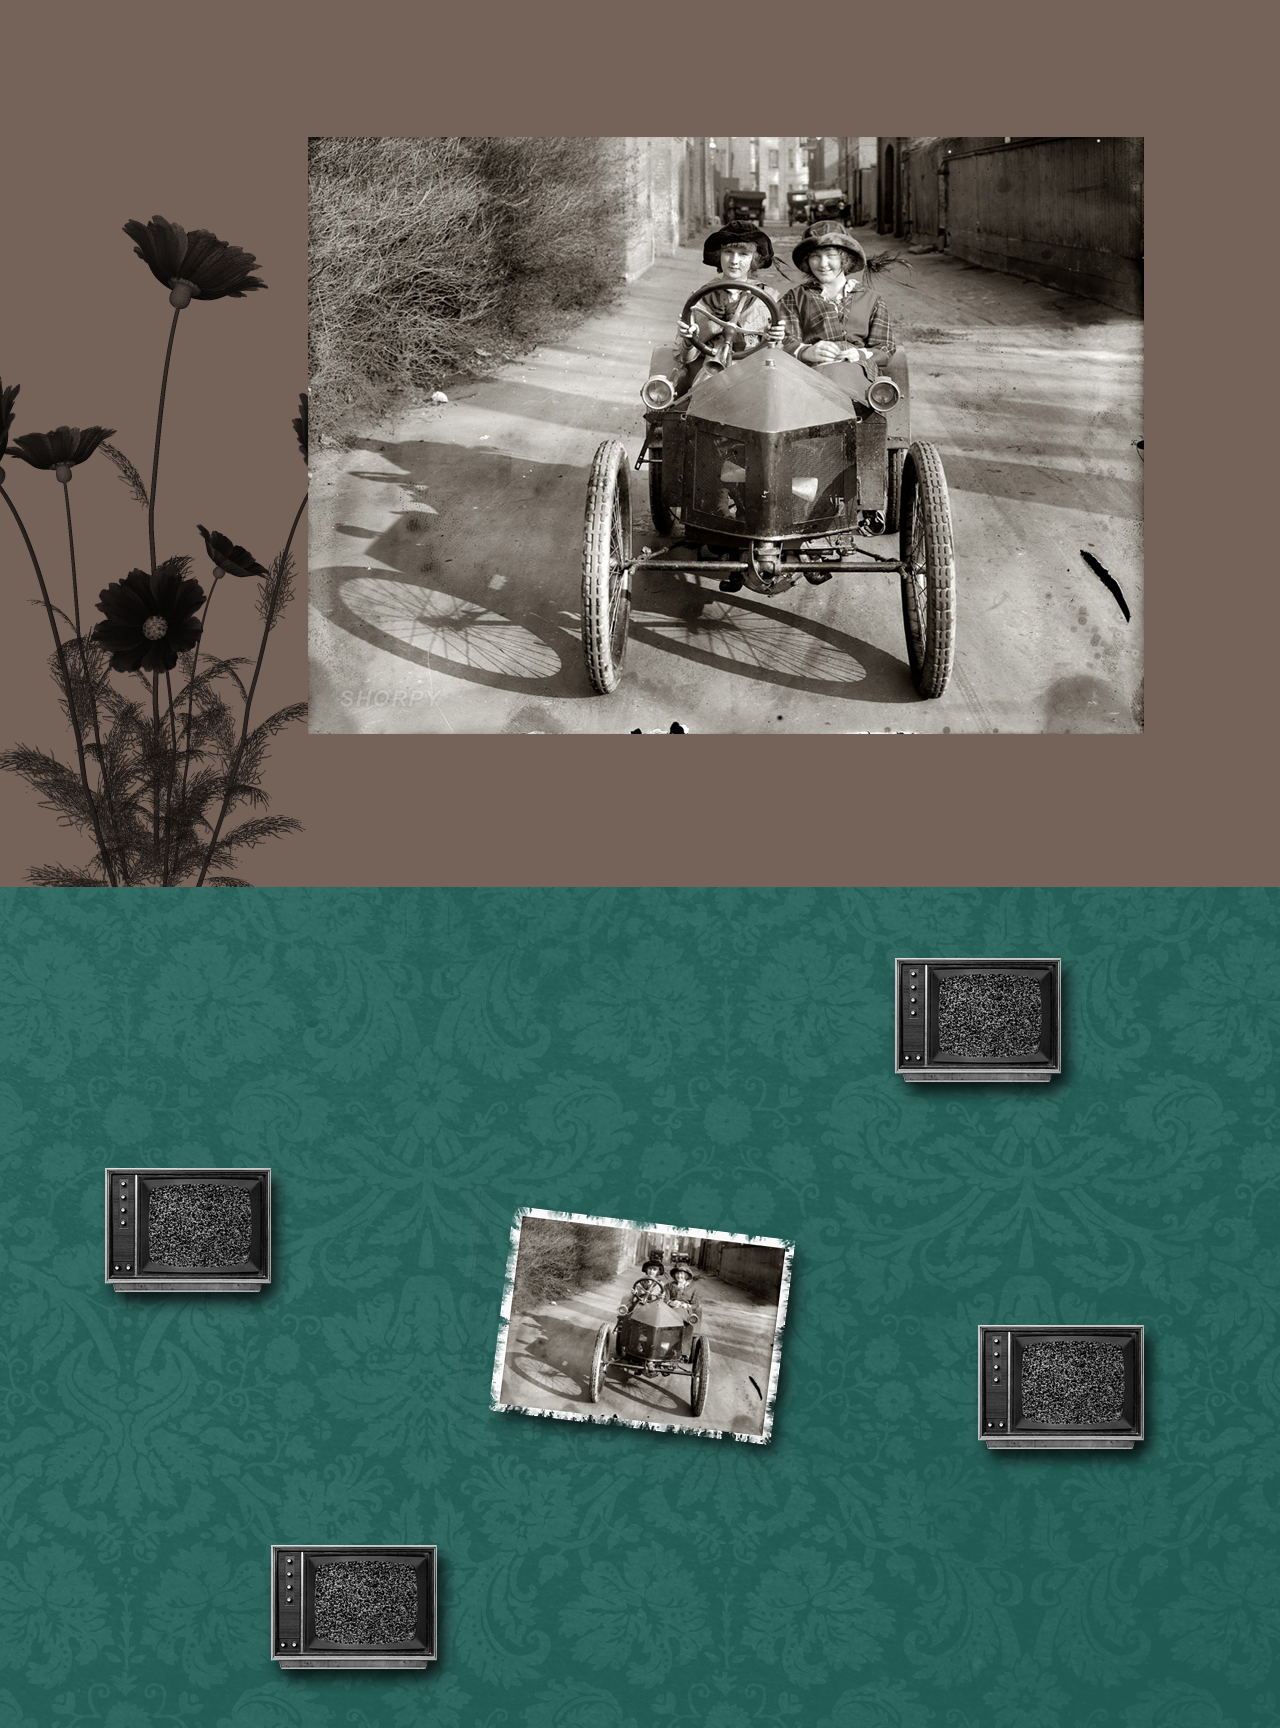
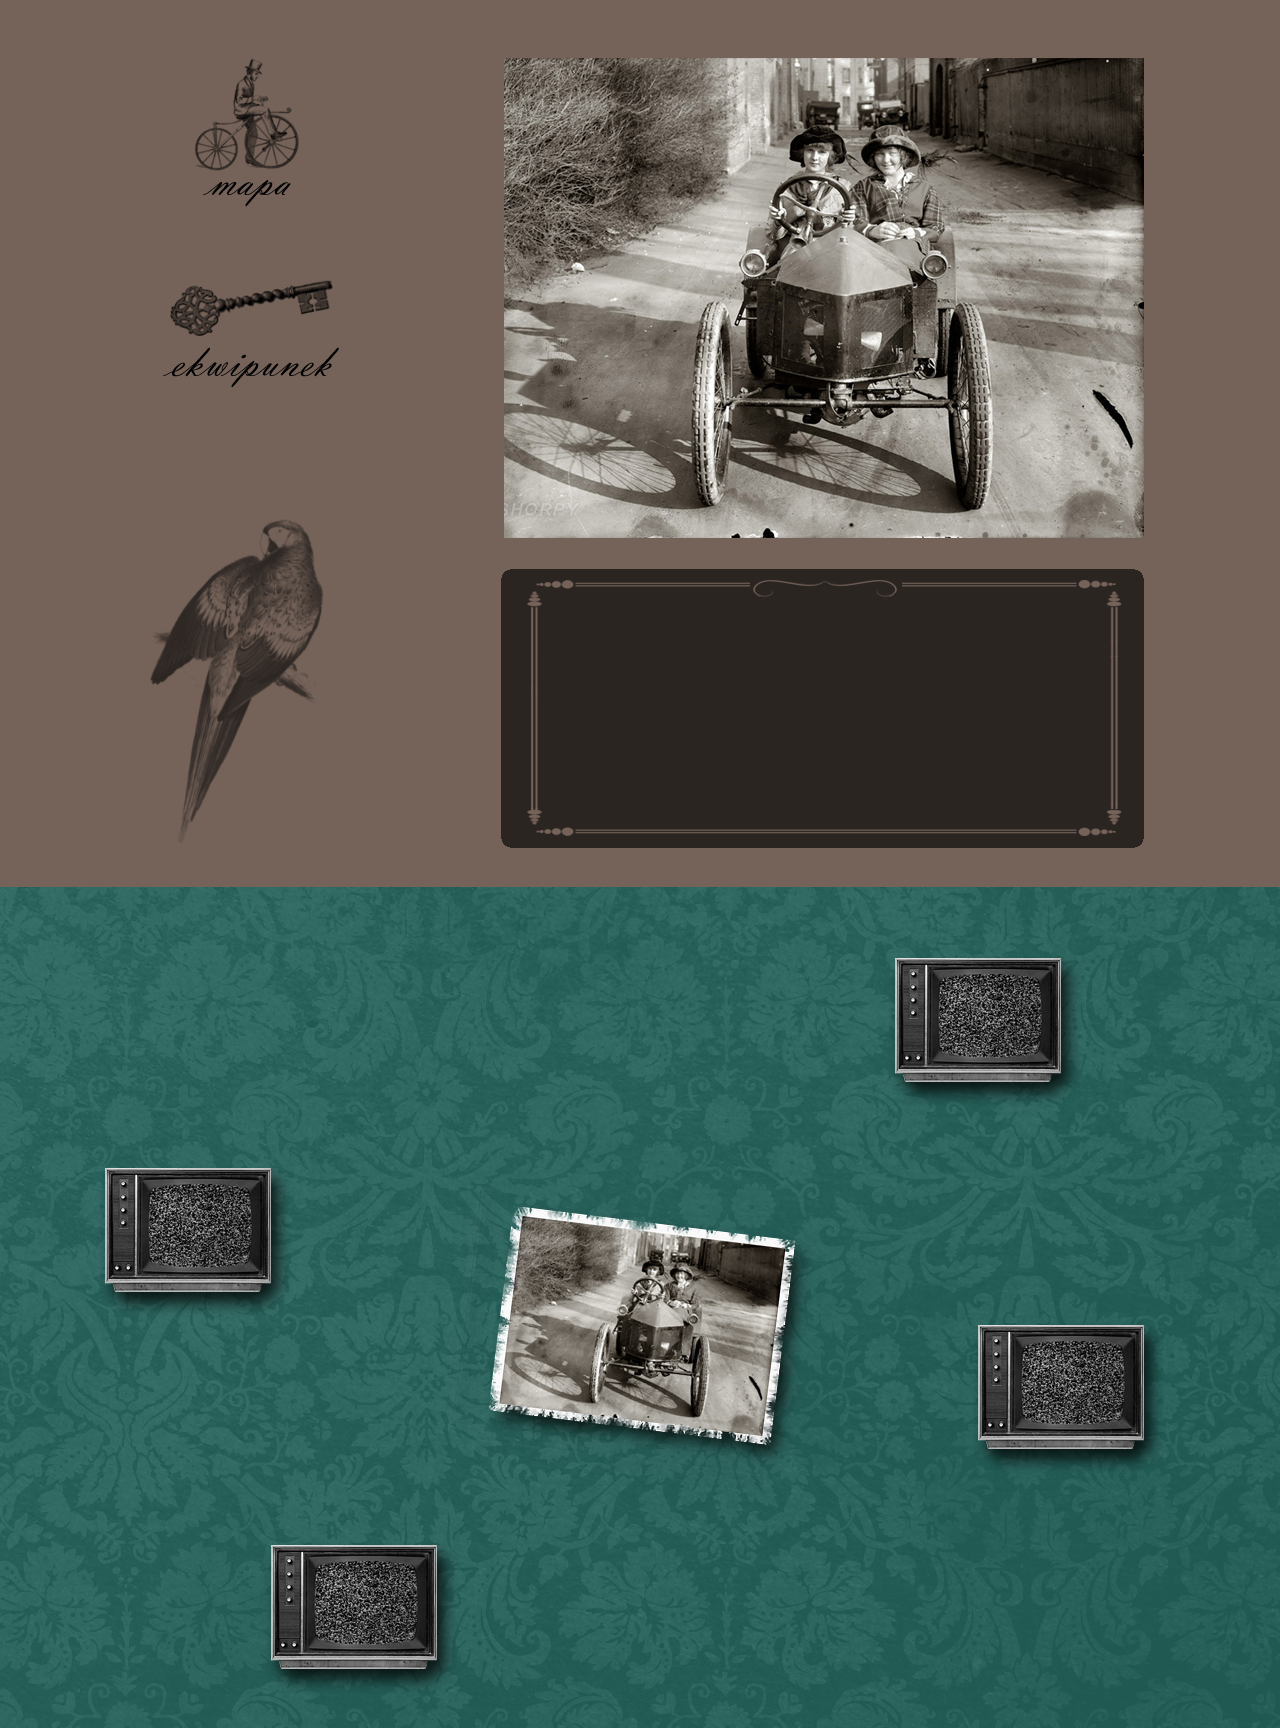
initila work for game canvas

Changed region(s): [[0.0, 0.0312, 0.9062, 0.5312]]

diff --git a/app/assets/javascripts/game/jquery.scrollTo.js b/app/assets/javascripts/game/jquery.scrollTo.js
@@ -1,0 +1,215 @@
+/**
+ * jQuery.ScrollTo
+ * Copyright (c) 2007-2009 Ariel Flesler - aflesler(at)gmail(dot)com | http://flesler.blogspot.com
+ * Dual licensed under MIT and GPL.
+ * Date: 5/25/2009
+ *
+ * @projectDescription Easy element scrolling using jQuery.
+ * http://flesler.blogspot.com/2007/10/jqueryscrollto.html
+ * Works with jQuery +1.2.6. Tested on FF 2/3, IE 6/7/8, Opera 9.5/6, Safari 3, Chrome 1 on WinXP.
+ *
+ * @author Ariel Flesler
+ * @version 1.4.2
+ *
+ * @id jQuery.scrollTo
+ * @id jQuery.fn.scrollTo
+ * @param {String, Number, DOMElement, jQuery, Object} target Where to scroll the matched elements.
+ *	  The different options for target are:
+ *		- A number position (will be applied to all axes).
+ *		- A string position ('44', '100px', '+=90', etc ) will be applied to all axes
+ *		- A jQuery/DOM element ( logically, child of the element to scroll )
+ *		- A string selector, that will be relative to the element to scroll ( 'li:eq(2)', etc )
+ *		- A hash { top:x, left:y }, x and y can be any kind of number/string like above.
+*		- A percentage of the container's dimension/s, for example: 50% to go to the middle.
+ *		- The string 'max' for go-to-end. 
+ * @param {Number} duration The OVERALL length of the animation, this argument can be the settings object instead.
+ * @param {Object,Function} settings Optional set of settings or the onAfter callback.
+ *	 @option {String} axis Which axis must be scrolled, use 'x', 'y', 'xy' or 'yx'.
+ *	 @option {Number} duration The OVERALL length of the animation.
+ *	 @option {String} easing The easing method for the animation.
+ *	 @option {Boolean} margin If true, the margin of the target element will be deducted from the final position.
+ *	 @option {Object, Number} offset Add/deduct from the end position. One number for both axes or { top:x, left:y }.
+ *	 @option {Object, Number} over Add/deduct the height/width multiplied by 'over', can be { top:x, left:y } when using both axes.
+ *	 @option {Boolean} queue If true, and both axis are given, the 2nd axis will only be animated after the first one ends.
+ *	 @option {Function} onAfter Function to be called after the scrolling ends. 
+ *	 @option {Function} onAfterFirst If queuing is activated, this function will be called after the first scrolling ends.
+ * @return {jQuery} Returns the same jQuery object, for chaining.
+ *
+ * @desc Scroll to a fixed position
+ * @example $('div').scrollTo( 340 );
+ *
+ * @desc Scroll relatively to the actual position
+ * @example $('div').scrollTo( '+=340px', { axis:'y' } );
+ *
+ * @dec Scroll using a selector (relative to the scrolled element)
+ * @example $('div').scrollTo( 'p.paragraph:eq(2)', 500, { easing:'swing', queue:true, axis:'xy' } );
+ *
+ * @ Scroll to a DOM element (same for jQuery object)
+ * @example var second_child = document.getElementById('container').firstChild.nextSibling;
+ *			$('#container').scrollTo( second_child, { duration:500, axis:'x', onAfter:function(){
+ *				alert('scrolled!!');																   
+ *			}});
+ *
+ * @desc Scroll on both axes, to different values
+ * @example $('div').scrollTo( { top: 300, left:'+=200' }, { axis:'xy', offset:-20 } );
+ */
+;(function( $ ){
+	
+	var $scrollTo = $.scrollTo = function( target, duration, settings ){
+		$(window).scrollTo( target, duration, settings );
+	};
+
+	$scrollTo.defaults = {
+		axis:'xy',
+		duration: parseFloat($.fn.jquery) >= 1.3 ? 0 : 1
+	};
+
+	// Returns the element that needs to be animated to scroll the window.
+	// Kept for backwards compatibility (specially for localScroll & serialScroll)
+	$scrollTo.window = function( scope ){
+		return $(window)._scrollable();
+	};
+
+	// Hack, hack, hack :)
+	// Returns the real elements to scroll (supports window/iframes, documents and regular nodes)
+	$.fn._scrollable = function(){
+		return this.map(function(){
+			var elem = this,
+				isWin = !elem.nodeName || $.inArray( elem.nodeName.toLowerCase(), ['iframe','#document','html','body'] ) != -1;
+
+				if( !isWin )
+					return elem;
+
+			var doc = (elem.contentWindow || elem).document || elem.ownerDocument || elem;
+			
+			return $.browser.safari || doc.compatMode == 'BackCompat' ?
+				doc.body : 
+				doc.documentElement;
+		});
+	};
+
+	$.fn.scrollTo = function( target, duration, settings ){
+		if( typeof duration == 'object' ){
+			settings = duration;
+			duration = 0;
+		}
+		if( typeof settings == 'function' )
+			settings = { onAfter:settings };
+			
+		if( target == 'max' )
+			target = 9e9;
+			
+		settings = $.extend( {}, $scrollTo.defaults, settings );
+		// Speed is still recognized for backwards compatibility
+		duration = duration || settings.speed || settings.duration;
+		// Make sure the settings are given right
+		settings.queue = settings.queue && settings.axis.length > 1;
+		
+		if( settings.queue )
+			// Let's keep the overall duration
+			duration /= 2;
+		settings.offset = both( settings.offset );
+		settings.over = both( settings.over );
+
+		return this._scrollable().each(function(){
+			var elem = this,
+				$elem = $(elem),
+				targ = target, toff, attr = {},
+				win = $elem.is('html,body');
+
+			switch( typeof targ ){
+				// A number will pass the regex
+				case 'number':
+				case 'string':
+					if( /^([+-]=)?\d+(\.\d+)?(px|%)?$/.test(targ) ){
+						targ = both( targ );
+						// We are done
+						break;
+					}
+					// Relative selector, no break!
+					targ = $(targ,this);
+				case 'object':
+					// DOMElement / jQuery
+					if( targ.is || targ.style )
+						// Get the real position of the target 
+						toff = (targ = $(targ)).offset();
+			}
+			$.each( settings.axis.split(''), function( i, axis ){
+				var Pos	= axis == 'x' ? 'Left' : 'Top',
+					pos = Pos.toLowerCase(),
+					key = 'scroll' + Pos,
+					old = elem[key],
+					max = $scrollTo.max(elem, axis);
+
+				if( toff ){// jQuery / DOMElement
+					attr[key] = toff[pos] + ( win ? 0 : old - $elem.offset()[pos] );
+
+					// If it's a dom element, reduce the margin
+					if( settings.margin ){
+						attr[key] -= parseInt(targ.css('margin'+Pos)) || 0;
+						attr[key] -= parseInt(targ.css('border'+Pos+'Width')) || 0;
+					}
+					
+					attr[key] += settings.offset[pos] || 0;
+					
+					if( settings.over[pos] )
+						// Scroll to a fraction of its width/height
+						attr[key] += targ[axis=='x'?'width':'height']() * settings.over[pos];
+				}else{ 
+					var val = targ[pos];
+					// Handle percentage values
+					attr[key] = val.slice && val.slice(-1) == '%' ? 
+						parseFloat(val) / 100 * max
+						: val;
+				}
+
+				// Number or 'number'
+				if( /^\d+$/.test(attr[key]) )
+					// Check the limits
+					attr[key] = attr[key] <= 0 ? 0 : Math.min( attr[key], max );
+
+				// Queueing axes
+				if( !i && settings.queue ){
+					// Don't waste time animating, if there's no need.
+					if( old != attr[key] )
+						// Intermediate animation
+						animate( settings.onAfterFirst );
+					// Don't animate this axis again in the next iteration.
+					delete attr[key];
+				}
+			});
+
+			animate( settings.onAfter );			
+
+			function animate( callback ){
+				$elem.animate( attr, duration, settings.easing, callback && function(){
+					callback.call(this, target, settings);
+				});
+			};
+
+		}).end();
+	};
+	
+	// Max scrolling position, works on quirks mode
+	// It only fails (not too badly) on IE, quirks mode.
+	$scrollTo.max = function( elem, axis ){
+		var Dim = axis == 'x' ? 'Width' : 'Height',
+			scroll = 'scroll'+Dim;
+		
+		if( !$(elem).is('html,body') )
+			return elem[scroll] - $(elem)[Dim.toLowerCase()]();
+		
+		var size = 'client' + Dim,
+			html = elem.ownerDocument.documentElement,
+			body = elem.ownerDocument.body;
+
+		return Math.max( html[scroll], body[scroll] ) 
+			 - Math.min( html[size]  , body[size]   );
+			
+	};
+
+	function both( val ){
+		return typeof val == 'object' ? val : { top:val, left:val };
+	};
+
+})( jQuery );

diff --git a/app/assets/stylesheets/game/layout.css.sass b/app/assets/stylesheets/game/layout.css.sass
@@ -1,12 +1,54 @@
+@import url(http://fonts.googleapis.com/css?family=Fondamento:400,400italic&subset=latin,latin-ext)
+
 body,
 html
   margin: 0
   padding: 0
   background: #756359
+  font-family: 'Fondamento', cursive
 
 .game-canvas
   height: 100%
-  background: #756359
+  width: 1280px
+  margin: auto
+  position: relative
+  
+  .location
+    position: absolute
+    top: 20px
+    right: 100px
+  .subs
+    position: absolute
+    top: 520px
+    right: 100px
+    width: 543px
+    height: 209px
+    padding: 35px 50px
+    background: url('text_frame.png')
+    color: #756359
+  .map_link
+    background: url('map.png')
+    width: 105px
+    height: 149px
+    position: absolute
+    top: 50px
+    left: 140px
+    cursor: pointer
+  .equip_link
+    background: url('equip.png')
+    width: 176px
+    height: 116px
+    position: absolute
+    top: 200px
+    left: 100px
+    cursor: pointer
+  .parrot
+    background: url('parrot.png')
+    width: 180px
+    height: 330px
+    position: absolute
+    top: 400px
+    left: 100px
 
 .map-canvas
   height: 100%
